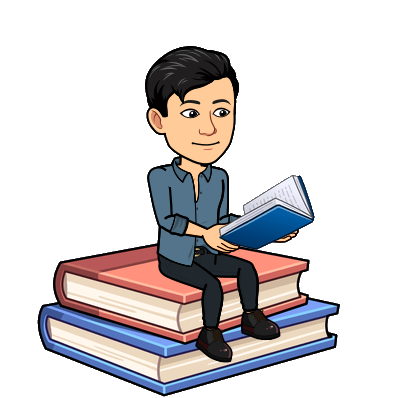
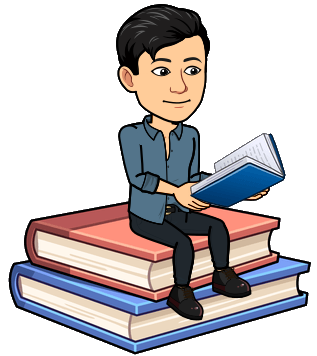
First design of about page

diff --git a/src/screens/About/About.js b/src/screens/About/About.js
@@ -1,14 +1,23 @@
 import React from 'react';
+import readingBitmoji from '../../assets/bitmojis/student.png';
 import waterlooLogo from '../../assets/icons/waterloo.svg';
+import laurierLogo from '../../assets/icons/laurier.png';
+import resume from '../../assets/resume.pdf';
 import './About.scss';
 
 function AboutSection(props) {
     return (
         <div id={props.id || null} className='about'>
-            <img src={waterlooLogo} alt='Cool Waterloo logo' className='waterloo-logo' />
+            <img src={readingBitmoji} alt='My bitmoji wants to read a book here' className='reading-bitmoji' />
+            <img src={waterlooLogo} alt='UWaterloo logo' className='waterloo-logo' />
+            <img src={laurierLogo} alt='Laurier logo' className='laurier-logo' />
             <p className='description'>
-                I'm a fourth-year Computer Science and Business Administration student at 
-                the University of Waterloo and Wilfrid Laurier University.
+                I'm a fourth-year Computer Science & Business Administration student at 
+                the University of Waterloo and Wilfrid Laurier University. For more 
+                professional information:<br />
+                <a href={resume} target='_blank' rel='noopener noreferrer'>
+                    <button>Résumé</button>
+                </a>
             </p>
         </div>
     );

diff --git a/src/screens/About/About.scss b/src/screens/About/About.scss
@@ -8,11 +8,34 @@
         font-family: ShareTechMono;
         font-size: 24px;
         width: 50%;
-        text-align: center;
+        button {
+            background-color: white;
+            border: 2px solid #333;
+            cursor: pointer;
+            font-family: ShareTechMono;
+            font-size: 24px;
+            margin-top: 10px;
+            padding: 5px 30px;
+            text-decoration: none;
+            &:hover {
+                background-color: #333;
+                color: white;
+            }
+        }
+    }
+    .reading-bitmoji {
+        height: 40%;
+        margin: 50px;
     }
     .waterloo-logo {
-        height: 60vh;
-        left: -30vh;
+        height: 30vw;
+        left: -15vw;
+        position: absolute;
+        opacity: 0.1;
+    }
+    .laurier-logo {
+        height: 30vw;
+        right: -15vw;
         position: absolute;
         opacity: 0.1;
     }

diff --git a/src/App.scss b/src/App.scss
@@ -1,3 +1,5 @@
+$breakpoint-tablet: 768px;
+
 .app {
     min-width: 570px;
     width: 100%;
@@ -10,3 +12,21 @@
         }
     }
 }
+
+
+// TODO: make everything mobile responsive and conditionally render
+// @media (max-width: $breakpoint-tablet) {
+//     html, body {
+//         max-width: 100vw;
+//         overflow-x: hidden;
+//         .app {
+//             .intro {
+//                 flex-direction: column;
+//                 .half {
+//                     height: 50%;
+//                     width: 100%;
+//                 }
+//             }
+//         }
+//     }
+// }

diff --git a/src/screens/Intro/Intro.js b/src/screens/Intro/Intro.js
@@ -1,6 +1,5 @@
 import React, { Component } from 'react';
 import Typewriter from 'typewriter-effect';
-import { ContactSection } from '../../components';
 import BreakingPaper1 from '../../assets/bitmojis/breaking-paper-1.png';
 import BreakingPaper2 from '../../assets/bitmojis/breaking-paper-2.png';
 import ProfilePicture from '../../assets/bitmojis/surprise.png';
@@ -17,7 +16,6 @@ function IntroSection(props) {
       </div>
       <div className='half'>
         <AnimatedIntroPicture />
-        <ContactSection />
       </div>
     </div>
   );

diff --git a/src/App.js b/src/App.js
@@ -1,6 +1,6 @@
 import React from 'react';
 import { IntroSection, AboutSection } from './screens';
-import { Navbar } from './components';
+import { Navbar, ContactSection } from './components';
 import './App.scss';
 
 // holds display order of each view and icons
@@ -8,6 +8,7 @@ const App = () => {
   return (
     <div className="app">
       <Navbar />
+      <ContactSection />
       <IntroSection id='home' />
       <AboutSection id='about' />
       <IntroSection id='exp' />

diff --git a/src/components/ContactSection/ContactSection.scss b/src/components/ContactSection/ContactSection.scss
@@ -1,10 +1,12 @@
 .contact-section {
     height: 50px;
-    max-width: 50%;
+    width: 100%;
     min-width: 280px;
-    position: absolute;
+    position: fixed;
     bottom: 25px;
-    right: 40px;
+    display: flex;
+    justify-content: center;
+    align-items: center;
     .icon {
         height: 50px;
         opacity: 0.21;

diff --git a/src/components/Navbar/Navbar.scss b/src/components/Navbar/Navbar.scss
@@ -1,6 +1,7 @@
 .navbar {
     overflow: hidden;
     width: 100%;
+    max-width: 100vw;
     height: 24px;
     background-color: white;
     display: flex;
